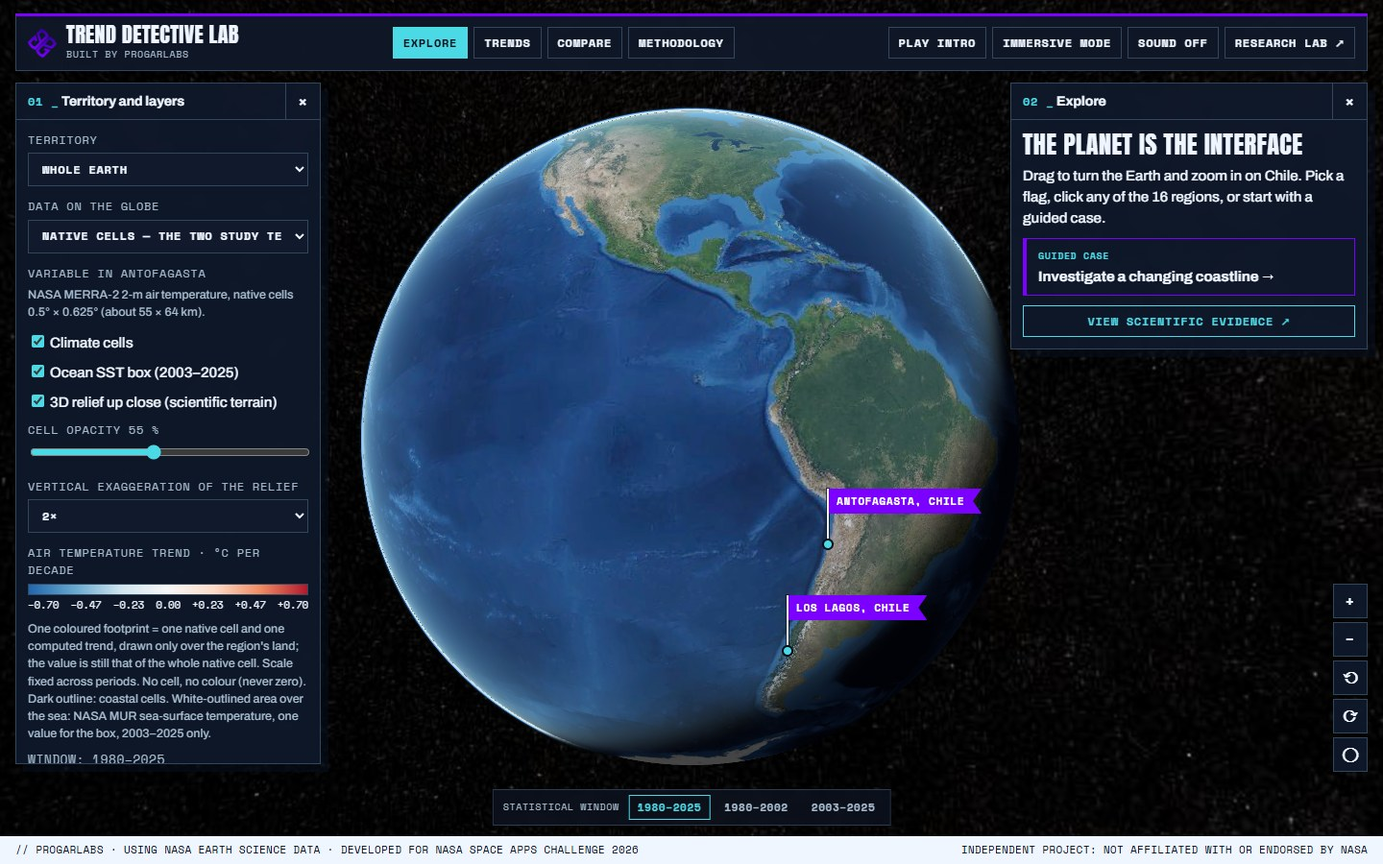
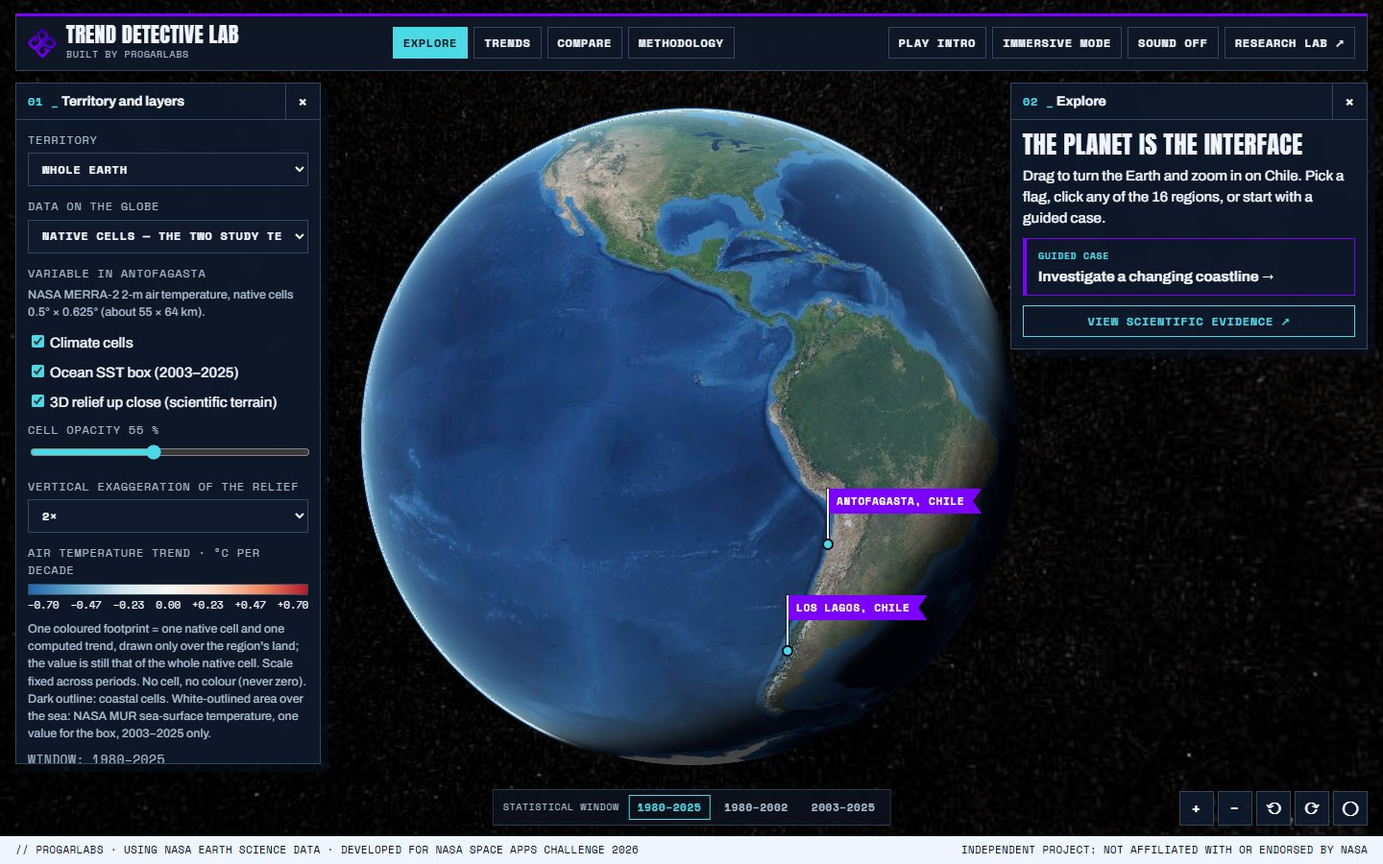
Atlas V2 closing pass: browser smoke run, layout fixes, Lab navigation, re-rendered film, evidence
- web/scripts/smoke.mjs + `npm run smoke`: 24 browser checks on the real page (flags, flights,
  extremes against the published slopes, 16 regions, intro Skip/Stop, Research Lab, old URLs,
  sound, seven viewport sizes, no-WebGL fallback, free orbit). Local only: needs a GPU and the basemap.
- Layout defects found by it and fixed: camera buttons over a tall right panel (now a row in the
  bottom-right corner); header over the panels and footer over the window strip on tablets;
  a phone lying down now uses the phone layout.
- Research Lab: one link back to the globe; the Lab opens on the region of ?region=;
  no link back when WebGL is missing. No scientific text or number changed.
- Names on the relief hide when they collide; a tooltip no longer survives a flight.
- render/shot/smoke remove their throwaway Chrome profile (about 100 MB per run).
- Docs: requirements matrix, final report (measurements, print check, Node decision), audio note;
  captures refreshed and added.

SI disclosure: written with an SI coding tool (Claude); pending review by Fabiana and Giuseppe.

Changed region(s): [[0.8438, 0.6533, 1.0, 0.9644]]

diff --git a/web/src/experiences/immersive.css b/web/src/experiences/immersive.css
@@ -32,6 +32,7 @@
 .im-markers > * { position: absolute; left: 0; top: 0; pointer-events: auto; white-space: nowrap; }
 .im-place { margin: -22px 0 0 8px; font: 700 12px Archivo, system-ui, sans-serif; color: var(--ink); text-shadow: 0 0 4px #000, 0 0 2px #000; pointer-events: none !important; }
 .im-markers > .is-crowded span { display: none; }
+.im-labels span.is-crowded { color: transparent; text-shadow: none; }
 .im-root .im-flag { margin: -58px 0 0 -1px; padding: 0; border: 0; background: none; height: 58px; display: flex; align-items: flex-start; cursor: pointer; }
 .im-flag i { width: 2px; height: 58px; background: var(--ink); box-shadow: 0 0 0 1px rgba(6, 13, 26, 0.7); position: relative; }
 .im-flag i::after { content: ""; position: absolute; left: -3px; bottom: -4px; width: 8px; height: 8px; border-radius: 50%; background: var(--accent); box-shadow: 0 0 0 2px var(--space); }
@@ -101,7 +102,8 @@
 .im-ramp { height: 12px; margin: 6px 0 3px; border: 1px solid var(--line); }
 .im-ticks { display: flex; justify-content: space-between; font-size: 10.5px; letter-spacing: 0; margin-bottom: 8px; }
 
-.im-cam { position: absolute; right: 16px; bottom: 96px; display: flex; flex-direction: column; gap: 4px; }
+/* a row in the bottom-right corner: below the right panel whatever its height, beside the window strip */
+.im-cam { position: absolute; right: 16px; bottom: 40px; display: flex; gap: 4px; }
 .im-root .im-cam button { width: 36px; height: 36px; padding: 0; font-size: 16px; background: rgba(16, 26, 44, 0.9); }
 /* statistical windows: a small floating strip, secondary to the planet; it never resizes the canvas */
 .im-dock { position: absolute; left: 50%; bottom: 40px; transform: translateX(-50%); display: flex; align-items: center; gap: 6px; padding: 5px 6px 5px 10px;
@@ -158,21 +160,33 @@
 .im-credits { margin-top: 1.6vw; font-size: 0.85vw; color: var(--ink); }
 .im-folio { position: absolute; left: 0; right: 0; bottom: 0; display: flex; justify-content: space-between; padding: 0.9vw 3.75vw; background: var(--ink); color: var(--space); font-size: 0.85vw; }
 
-@media (max-width: 1100px) { .im-top nav { order: 3; } .im-top { flex-wrap: wrap; } .im-panel, .im-root .im-reopen { top: 132px; max-height: calc(100% - 236px); } }
-@media (max-width: 760px) {
+/* narrower than 1280: the centred highest/lowest card reaches under the panels, so they end above it */
+@media (max-width: 1279px) { .im-panel { max-height: calc(100% - 294px); } }
+/* tablet: the header takes two rows and the footer wraps, so everything floating moves up a little */
+@media (max-width: 1100px) { .im-top nav { order: 3; } .im-top { flex-wrap: wrap; } .im-panel, .im-root .im-reopen { top: 132px; } .im-panel { max-height: calc(100% - 340px); }
+  .im-dock, .im-cam { bottom: 56px; } .im-dock > span { display: none; } .im-extremes { bottom: 100px; } }
+@media (max-width: 830px) { .im-panel, .im-root .im-reopen { top: 178px; } .im-panel { max-height: calc(100% - 420px); } }   /* header in three rows */
+@media (max-width: 760px), (max-height: 500px) {   /* phones, upright or lying down (PHONE in stage.ts) */
   .im-top { left: 8px; right: 8px; top: 8px; gap: 8px; } .im-actions button { display: none; }
   .im-top nav { gap: 4px; width: 100%; } .im-root .im-top nav button { flex: 1; padding: 7px 2px; font-size: 10.5px; letter-spacing: 0; }
   /* one bottom sheet for evidence, a compact bar under the header for layers: about half the scene stays free */
-  .im-right { left: 8px; right: 8px; width: auto; top: auto; bottom: 96px; max-height: 40dvh; }
-  .im-left { left: 8px; right: 52px; width: auto; top: 150px; max-height: 46dvh; }
+  .im-panel.im-right { left: 8px; right: 8px; width: auto; top: auto; bottom: 96px; max-height: 40dvh; }
+  .im-panel.im-left { left: 8px; right: 52px; width: auto; top: 150px; max-height: 46dvh; }
   .im-root .im-reopen.im-left { top: 150px; } .im-root .im-reopen.im-right { top: auto; bottom: 96px; right: 8px; }
-  .im-cam { bottom: auto; top: 150px; right: 8px; } .im-foot span:last-child { display: none; } .im-foot { padding: 4px 8px; font-size: 8.5px; }
+  .im-cam { bottom: auto; top: 150px; right: 8px; flex-direction: column; } .im-foot span:last-child { display: none; } .im-foot { padding: 4px 8px; font-size: 8.5px; }
   /* phone: the window strip shows only the chosen window (tap it to choose another); extremes shrink to one line each */
-  .im-dock { bottom: 26px; padding: 2px 4px 2px 8px; gap: 2px; } .im-dock > span { font-size: 8.5px; }
+  .im-dock { bottom: 38px; padding: 2px 4px 2px 8px; gap: 2px; } .im-dock > span { display: inline; font-size: 8.5px; }
   .im-root .im-dock button { display: none; padding: 9px 8px; } .im-root .im-dock button[aria-pressed="true"], .im-root .im-dock.is-open button { display: block; }
   .im-extremes { left: 8px; bottom: auto; top: 200px; transform: none; grid-template-columns: auto; padding: 5px 8px; gap: 2px; } .im-extremes b { font-size: 18px; } .im-extremes p, .im-extremes div span:last-child { display: none; }
   .im-panel.im-left.is-expanded ~ .im-extremes { display: none; }
   .im-flag span { font-size: 9.5px; padding: 4px 15px 4px 6px; } .im-study span { display: none; } .im-vol { display: none; }
   .im-skip { top: 8px; right: 8px; }
+}
+/* a phone lying down: one header row, layers under it, evidence as a short bottom sheet; the highest/lowest card gives way to its two markers on the cells */
+@media (max-height: 500px) {
+  .im-top { flex-wrap: nowrap; } .im-top nav { order: 0; width: auto; flex: 1; } .im-brand em, .im-actions a, .im-extremes { display: none; }
+  .im-panel.im-left, .im-root .im-reopen.im-left, .im-cam { top: 64px; } .im-panel.im-left { max-height: calc(100dvh - 170px); }
+  .im-panel.im-right, .im-root .im-reopen.im-right { bottom: 64px; } .im-panel.im-right { left: auto; width: min(372px, 60vw); max-height: calc(100dvh - 140px); }
+  .im-dock { left: 8px; transform: none; }
 }
 @media (prefers-reduced-motion: reduce) { .im-root, .im-root * { transition: none !important; animation: none !important; } }

diff --git a/web/src/experiences/stage.ts b/web/src/experiences/stage.ts
@@ -47,8 +47,9 @@ export type StageState = typeof DEFAULTS & {
   scale: number; sources: string[]; places: string[];
   tip: { x: number; y: number; lines: string[] } | null;
 };
+export const PHONE = '(max-width: 760px), (max-height: 500px)';   // same condition as the phone block of immersive.css
 export const useStage = create<StageState>(() => ({
-  ...DEFAULTS, mode: 'explore', left: matchMedia('(max-width: 760px)').matches ? 'minimized' : 'expanded', right: matchMedia('(max-width: 760px)').matches ? 'minimized' : 'expanded',   // phones open on the planet
+  ...DEFAULTS, mode: 'explore', left: matchMedia(PHONE).matches ? 'minimized' : 'expanded', right: matchMedia(PHONE).matches ? 'minimized' : 'expanded',   // phones open on the planet
   hideUi: false, film: false, t: 0,
   status: 'loading', error: '', near: false, region: null, regionNames: {}, extremes: null, picked: null, atlas: null,
   basemap: null, sstSlope: undefined, scale: 1, sources: [], places: [], tip: null,
@@ -207,13 +208,18 @@ export async function mountStage(els: { root: HTMLElement; globe: HTMLElement; t
       const L = poseToLocal(data.scene, terrain.W, terrain.H, p, EARTH_R);
       cam.position.set(...L.position); cam.up.set(...L.up); cam.lookAt(...L.target);
       renderer.render(scene3, cam);
+      const named: number[][] = [];
       data.scene.places.forEach((pl, i) => {               // place labels ride on the terrain
         const d = els.labels.children[i] as HTMLElement | undefined;
         if (!d) return;
         const x = (pl.uv[0] - 0.5) * terrain!.W, z = (pl.uv[1] - 0.5) * terrain!.H;
         const v = v3.set(x, (pl.z / KM) * terrain!.exag() - terrain!.dropAt(x, z) + 2, z).project(cam);
         d.style.display = v.z < 1 && Math.abs(v.x) < 1 && Math.abs(v.y) < 1 ? '' : 'none';
-        d.style.transform = `translate(${((v.x + 1) / 2) * W}px, ${((1 - v.y) / 2) * H}px)`;
+        const sx = ((v.x + 1) / 2) * W, sy = ((1 - v.y) / 2) * H, w = pl.name.length * 7.5 + 22;   // ponytail: width estimated from the name's length, measure the span if labels ever change font
+        d.style.transform = `translate(${sx}px, ${sy}px)`;
+        const crowded = d.style.display === '' && named.some((t) => sx < t[0] + t[2] && sx + w > t[0] && Math.abs(sy - t[1]) < 24);
+        d.classList.toggle('is-crowded', crowded);        // as for the markers: the icon stays, the name hides
+        if (!crowded && d.style.display === '') named.push([sx, sy, w]);
       });
     }
     placeMarkers(p.range, a, !!fs);
@@ -373,6 +379,7 @@ export async function mountStage(els: { root: HTMLElement; globe: HTMLElement; t
      *  The camera rises, travels along Chile and descends; any pointer, wheel or Escape input interrupts it. */
     flyTo(dest: SceneId | 'earth' | string) {
       if (get().film) endFilm(get().t);
+      set({ tip: null });                                   // a tooltip belongs to the place the camera is leaving
       const id = dest in SCENES ? dest as SceneId : sceneOf(dest);
       const to = dest === 'earth' ? WHOLE_EARTH : id ? DEST[id] : regionPose(dest);
       if (!to) return;

diff --git a/web/src/main.tsx b/web/src/main.tsx
@@ -7,6 +7,7 @@ const q = new URLSearchParams(location.search);
 const noGl = (() => { try { const c = document.createElement('canvas'); return !(c.getContext('webgl2') || c.getContext('webgl')); } catch { return true; } })();
 // Research Lab: asked for (?view=lab), any of its existing deep links (?q=, ?embed=3d, ?view=3d, ?fixture, #anchors), or no WebGL.
 const lab = noGl || ['q', 'embed', 'fixture'].some((k) => q.has(k)) || ['lab', '3d'].includes(q.get('view') ?? '') || location.hash.length > 1;
+if (noGl) document.documentElement.dataset.nogl = '1';   // styles.css hides "Back to the globe": there is no globe to go back to
 
 const Lab = lazy(async () => { await import('./styles.css'); return import('./App'); });
 const Immersive = lazy(() => import('./experiences/immersive'));
@@ -15,9 +16,9 @@ createRoot(document.getElementById('root')!).render(
   <StrictMode>
     <Suspense fallback={null}>
       {lab ? <>
-        {q.get('embed') !== '3d' && <p style={{ margin: 0, padding: '6px 16px', font: '14px system-ui', background: '#060D1A' }}>
-          <a href="./" style={{ color: '#4CD9E6' }}>← Immersive Earth</a>
-          {noGl && <span style={{ color: '#EFF6FF' }}> · This browser cannot show WebGL, so the 3D Earth is replaced by the Research Lab and its 2D maps.</span>}
+        {/* the way back to the globe is the Lab's own "Back to the globe" link; this bar only explains a missing globe */}
+        {noGl && q.get('embed') !== '3d' && <p style={{ margin: 0, padding: '6px 16px', font: '14px system-ui', background: '#060D1A', color: '#EFF6FF' }}>
+          This browser cannot show WebGL, so the 3D Earth is replaced by the Research Lab and its 2D maps.
         </p>}
         <Lab />
       </> : <Immersive />}

diff --git a/web/src/styles.css b/web/src/styles.css
@@ -309,6 +309,7 @@ button:disabled { cursor: not-allowed; }
 .paper .eyebrow { font-family: var(--mono); font-weight: 400; font-size: 0.8rem; letter-spacing: 0.14em; color: var(--brand-deep); }
 .paper .to-globe { font-family: var(--mono); font-size: 0.78rem; text-decoration: none; color: var(--ink); border: 1px solid var(--ink); padding: 0.3rem 0.7rem; }
 .paper .to-globe:hover { background: var(--ink); color: #fff; }
+[data-nogl] .paper .to-globe { display: none; }
 .paper .paper-status { font-family: var(--mono); font-size: 0.76rem; text-transform: uppercase; letter-spacing: 0.08em; margin: 0 0 1rem;
   padding-left: 0.6rem; border-left: 0.6rem solid var(--accent); max-width: none; }
 .paper .lede { font-size: 1.2rem; font-weight: 500; color: var(--ink); max-width: 58ch; }
@@ -364,7 +365,7 @@ button:disabled { cursor: not-allowed; }
 /* ── Print (A4): the paper without its controls ── */
 @page { size: A4; margin: 18mm 16mm; }
 @media print {
-  /* interactive chrome; #root > p:first-child is the "← Immersive Earth" bar rendered by main.tsx */
+  /* interactive chrome; #root > p:first-child is the no-WebGL notice rendered by main.tsx */
   #root > p:first-child, .paper .skip, .paper .to-globe, .paper .q, .paper .primary, .paper .t3d-bar, .paper .t3d-cams, .paper .t3d-view,
   .paper .toggle button[aria-pressed='false'] { display: none !important; }
   /* the WebGL canvas does not print: say so; its legend, notes and sources stay */

diff --git a/web/src/experiences/immersive.tsx b/web/src/experiences/immersive.tsx
@@ -17,7 +17,7 @@ import { BRBG, ramp, RDBU, SCENES, stopsFor, type SceneId } from '../engine/terr
 import { num, pval, signed, VERDICT_SHORT } from '../format';
 import type { Catalog, SST, Territory, VariableData } from '../types';
 import { sound } from './sound';
-import { EVENTS, mountStage, REGION_OF, TOTAL, useStage, type Atlas, type Layer, type Mode, type PanelState, type Stage } from './stage';
+import { EVENTS, mountStage, PHONE, REGION_OF, TOTAL, useStage, type Atlas, type Layer, type Mode, type PanelState, type Stage } from './stage';
 import { STUDIES, type Study } from './studies';
 
 const Q = new URLSearchParams(location.search);
@@ -46,7 +46,7 @@ const domainOf = (d: VariableData) => {
 function setPanel(side: 'left' | 'right', v: PanelState) {
   const other = side === 'left' ? 'right' : 'left';
   // small screens: one expanded sheet at a time
-  if (v === 'expanded' && matchMedia('(max-width: 760px)').matches && useStage.getState()[other] === 'expanded') useStage.setState({ [other]: 'minimized' } as never);
+  if (v === 'expanded' && matchMedia(PHONE).matches && useStage.getState()[other] === 'expanded') useStage.setState({ [other]: 'minimized' } as never);
   useStage.setState({ [side]: v } as never);
   sound.cue('panel');
 }

diff --git a/web/src/App.tsx b/web/src/App.tsx
@@ -143,7 +143,9 @@ function FullApp() {
   useEffect(() => {
     if (!cat || varId) return;
     setVarId(cat.variables[0]?.id ?? null);
-    const preferred = cat.regions.find((r) => r.id === 'los-lagos') ?? cat.regions[0];
+    // the region the visitor came with from the globe (?region=), else the default
+    const asked = new URLSearchParams(location.search).get('region');
+    const preferred = cat.regions.find((r) => r.id === asked) ?? cat.regions.find((r) => r.id === 'los-lagos') ?? cat.regions[0];
     setA(preferred?.id ?? '');
   }, [cat, varId]);
 

diff --git a/docs/immersive/V2_REQUIREMENTS_MATRIX.md b/docs/immersive/V2_REQUIREMENTS_MATRIX.md
@@ -5,20 +5,20 @@
 Sources: Fabiana's eight observations in PR #12 (`docs/frontend/OBSERVACIONES_EXPERIENCIA_INMERSIVA.md`, read from the branch `docs/observaciones-inmersivas`), Giuseppe's requests, and the technical audit. Design contract: PR #8. Base: PR #10 / #11.
 
 Status words: **Done** (implemented and checked as described), **Partial** (what is missing is stated), **Not done**.
-Captures are in [`v2/`](v2/); tests are `tests/test_atlas.py` (pytest) and `web/src/atlas.test.ts` (vitest).
+Captures are in [`v2/`](v2/); tests are `tests/test_atlas.py` (pytest), `web/src/atlas.test.ts` (vitest) and the browser smoke run `web/scripts/smoke.mjs` ("smoke NN" below; 24 checks, all passing on 2026-11-15, see `V2_FINAL_REPORT.md`).
 
 ## Fabiana — PR #12
 
 | ID | Observation | What was done | Code | Check | Status |
 | --- | --- | --- | --- | --- | --- |
-| F1 | Intro approved, no changes | Camera spline, shots, captions, title and hand-off untouched (`K`, `SHOTS` in `timeline.ts` unchanged). V1 masters kept. V2 differs in three declared ways: the yearly chart (G6), the relief without its block (F8), SST drawn on the sea. | `web/src/cinematic/timeline.ts` | vitest "film timeline" (camera, 30 s, hand-off); `v2/film_v1_v2.jpg` | Done — **needs Fabiana's eye on the three differences** |
-| F2 | Bottom bar smaller / transparent; much smaller on mobile | The full-width year axis became a small centred strip "Statistical window" with the computed windows as buttons, 55 % opaque. Phone: only the chosen window shows; tapping it lists the others. The footer credit line is thinner on phones. The canvas never resizes. | `Dock` in `immersive.tsx`, `.im-dock` in `immersive.css` | `v2/earth.jpg` vs production; `v2/mobile_earth.jpg` | Done |
-| F3 | Two flags on Whole Earth: ANTOFAGASTA, CHILE / LOS LAGOS, CHILE; click enters the territory with its statistics | Two georeferenced flag buttons (keyboard-focusable), hidden when behind the planet, pinned on Antofagasta city and Puerto Montt. Click → arc flight → relief, cells, extremes and panel of that territory. | `FLAGS`, `Markers` in `immersive.tsx`; `placeMarkers`, `flyTo` in `stage.ts` | Browser: click → territory (`v2/antofagasta.jpg`, `v2/los_lagos.jpg`) | Done |
+| F1 | Intro approved, no changes | Camera spline, shots, captions, title and hand-off untouched (`K`, `SHOTS` in `timeline.ts` unchanged). V1 masters kept. V2 differs in three declared ways: the yearly chart (G6), the relief without its block (F8), SST drawn on the sea. | `web/src/cinematic/timeline.ts` | vitest "film timeline" (camera, 30 s, hand-off); `v2/film_v1_v2.jpg`; V2 re-rendered and reviewed frame by frame (60 frames) in the closing pass | Done — **needs Fabiana's eye on the three differences** |
+| F2 | Bottom bar smaller / transparent; much smaller on mobile | The full-width year axis became a small centred strip "Statistical window" with the computed windows as buttons, 55 % opaque. Phone: only the chosen window shows; tapping it lists the others. The footer credit line is thinner on phones. The canvas never resizes. | `Dock` in `immersive.tsx`, `.im-dock` in `immersive.css` | `v2/earth.jpg` vs production; `v2/mobile_earth.jpg`; smoke 16: no floating element covers another at 1920×1080, 1440×900, 1366×768, 1280×720, 768×1024, 844×390, 390×844 | Done |
+| F3 | Two flags on Whole Earth: ANTOFAGASTA, CHILE / LOS LAGOS, CHILE; click enters the territory with its statistics | Two georeferenced flag buttons (keyboard-focusable), hidden when behind the planet, pinned on Antofagasta city and Puerto Montt. Click → arc flight → relief, cells, extremes and panel of that territory. | `FLAGS`, `Markers` in `immersive.tsx`; `placeMarkers`, `flyTo` in `stage.ts` | smoke 02 (both flags visible on load), 03 (click → flight → relief and extremes) | Done |
 | F4 | Magnifier cursor | SVG magnifier on the planet only (cyan lens over something inspectable, grabbing hand while dragging). Buttons, selects, links and inputs keep their own cursors. No cursor on touch. | `.im-input` in `immersive.css` | Browser, by hand | Done — hot-spot and size not checked on a high-DPR screen |
 | F5 | Population icon at each town, exact location | Town icon for the 9 towns and a different triangle for the 3 landmarks (Llullaillaco, Lago Llanquihue, Volcán Osorno are not towns). Coordinates are those the terrain pipeline uses; names hide when they collide, icons stay; hidden behind the planet and at far scales. | `pipeline/atlas.py` (`PLACES`), `.im-place`, `.im-labels` | pytest `test_places_sit_where_the_terrain_put_them`; `v2/antofagasta.jpg` | Done |
-| F6 | Visible journey through Chile between Antofagasta and Los Lagos | One flight: the camera rises until neither relief is on screen (about 4 400 km), travels along the ground and descends. The destination's relief is loaded at the top of the arc, so there is no cut. Pointer, wheel or Escape stops it. Instant with reduced motion. | `planFlight`, `flightPose` in `timeline.ts`; `tick` in `stage.ts` | vitest "flights between territories"; browser both ways | Done |
-| F7 | Maximum and minimum shown automatically | "Highest cell trend" / "Lowest cell trend" card and two markers on the cells appear on arrival, for the territory, variable and window on screen. They are the largest and smallest **published per-cell trends**, labelled as trends, with unit, product, window, cell centre and p-value. | `extremesOf` in `pure.ts`; `Extremes` in `immersive.tsx` | vitest "highest and lowest cell trend" (4 scene/window cases against the sorted published slopes) | Done |
-| F8 | Trend layer follows the Earth's curvature and relief; not flat and square | Far and mid range: cells are polygons on the Cesium ellipsoid, clipped to the region. Up close: the relief is cut to the region's shape (alpha mask), bent by d²/2R and viewed with a camera whose vertical tilts with the planet; the grey block is gone. | `addLayer` in `earth.ts`; `paintMask`, `dropAt` in `terrain.ts`; `poseToLocal` in `geo.ts` | `v2/cells_on_globe.jpg`, `v2/antofagasta.jpg`, free orbit by hand | Done — the relief texture is still the pipeline's hypsometric tint, so its colour differs from the basemap around it |
+| F6 | Visible journey through Chile between Antofagasta and Los Lagos | One flight: the camera rises until neither relief is on screen (about 4 400 km), travels along the ground and descends. The destination's relief is loaded at the top of the arc, so there is no cut. Pointer, wheel or Escape stops it. Instant with reduced motion. | `planFlight`, `flightPose` in `timeline.ts`; `tick` in `stage.ts` | vitest "flights between territories"; smoke 07 (the relief leaves the screen before the other appears; `v2/mid_flight.jpg`) and 08 (Escape stops the camera, the trip can be resumed) | Done |
+| F7 | Maximum and minimum shown automatically | "Highest cell trend" / "Lowest cell trend" card and two markers on the cells appear on arrival, for the territory, variable and window on screen. They are the largest and smallest **published per-cell trends**, labelled as trends, with unit, product, window, cell centre and p-value. | `extremesOf` in `pure.ts`; `Extremes` in `immersive.tsx` | vitest "highest and lowest cell trend" (4 scene/window cases against the sorted published slopes); smoke 04, 05, 07: the card equals the largest and smallest published slope of `scene.json` for three territory/window pairs, with no click | Done — on a phone lying down (height ≤ 500 px) the card is hidden and only the two markers on the cells remain |
+| F8 | Trend layer follows the Earth's curvature and relief; not flat and square | Far and mid range: cells are polygons on the Cesium ellipsoid, clipped to the region. Up close: the relief is cut to the region's shape (alpha mask), bent by d²/2R and viewed with a camera whose vertical tilts with the planet; the grey block is gone. | `addLayer` in `earth.ts`; `paintMask`, `dropAt` in `terrain.ts`; `poseToLocal` in `geo.ts` | `v2/cells_on_globe.jpg`, `v2/antofagasta.jpg`; smoke 18 orbits both reliefs (from the east, low oblique, from above, from the south-west, hand-over range): `v2/orbit_*.jpg` | Done — the relief texture is still the pipeline's hypsometric tint, so its colour differs from the basemap around it |
 
 ## Giuseppe
 
@@ -27,11 +27,11 @@ Captures are in [`v2/`](v2/); tests are `tests/test_atlas.py` (pytest) and `web/
 | G1 | Cells clipped to the territory | `pipeline/atlas.py` writes `visible = native cell ∩ region` for the 51 + 103 cells (shapely, offline). Values, intervals and p stay in `scene.json`; the legend and Methodology say the value is that of the whole native cell. SST is not clipped by land: it is drawn on the sea part of its box only. pytest checks containment, completeness and that the atlas file carries no statistics. | Done for the two territories with native-cell scenes. No national cell layer exists in the published files. |
 | G2 | Materials, transparency, glow | Translucent fills with a thin outline; coastal cells dark outline; selected cell cyan outline (kept until closed); extremes double outline; no fill where there is no value. No bloom, no emissive: colours must match the legend. | Partial — significance is given in the tooltip, the cell card and the tables, not as a pattern on the cells. |
 | G3 | Clean Explore without the pasted block | The rectangular terrain and its grey base are gone from the globe. "3D relief up close" can be switched off to keep only cells on the globe. | Done |
-| G4 | The 16 regions | Click any region on the globe, or choose it in the Territory list (keyboard), to fly there and read its published regional trends (air temperature MERRA-2, precipitation IMERG): slope, unit, period, interval, p, q, verdict, product, grid. Two regional choropleths with their own scale and legend; a 16-row table in Trends. Shareable `?region=<id>&layer=t2m`. | Partial — no search box (the list is a native select with type-ahead); GLDAS regional variables stay in the Research Lab. |
+| G4 (smoke 09) | The 16 regions | Click any region on the globe, or choose it in the Territory list (keyboard), to fly there and read its published regional trends (air temperature MERRA-2, precipitation IMERG): slope, unit, period, interval, p, q, verdict, product, grid. Two regional choropleths with their own scale and legend; a 16-row table in Trends. Shareable `?region=<id>&layer=t2m`. | Partial — no search box (the list is a native select with type-ahead); GLDAS regional variables stay in the Research Lab. |
 | G5 | Studies with visual support | Four study pins (coast/interior, SST, Magallanes precipitation, Los Lagos soil moisture), each labelled *Study area* or *Regional anchor*; none is drawn as a station. Card: question, place, result read from the JSON, product, period, limitation, link to the full study. One image (the team's own QGIS map). | Partial — one image only; no observation-site pins. |
 | G6 | Animated time chart in the intro | Yearly anomalies 1980–2025 of the coastal (10 cells) and interior (41 cells) groups, drawn year by year from 14.8 s to 21.4 s; 2003–2025 is shaded when the film changes window. Series exported by `pipeline/atlas.py`; their OLS slopes equal the published ones (pytest). | Done |
 | G7 | Sound | Interface: seven short cues synthesised with Web Audio (no file shipped), off by default, on/off + volume, remembered. Film: `web/scripts/film_audio.py` builds a mix from five local Epidemic Sound files on the film's beats. See `V2_AUDIO.md`. | Partial — the film mix was **not listened to by a person** and its licence must be confirmed by the subscriber. |
-| G8 | Research Lab as a scientific publication | Editorial layer (Archivo / Anton / Space Mono, 72-character measure, ruled tables with tabular numerals), masthead with "Working paper · exploratory results · not peer-reviewed", contents, numbered figures and tables, A4 print styles, "Back to the globe" keeping the region. No scientific text or number was edited. | Partial — the eleven-section paper structure per investigation was not written; print preview was not opened. |
+| G8 | Research Lab as a scientific publication | Editorial layer (Archivo / Anton / Space Mono, 72-character measure, ruled tables with tabular numerals), masthead with "Working paper · exploratory results · not peer-reviewed", contents, numbered figures and tables, A4 print styles, "Back to the globe" keeping the region. No scientific text or number was edited. Closing pass: one way back to the globe (the duplicate top bar is gone), the Lab opens on the region it was called with (`?region=`), and the A4 print was produced and read (25 pages: margins, figures, tables and references print; the chosen region is written out). | Partial — the eleven-section paper structure per investigation was not written; in print the variable-catalogue table has narrow columns and some pages are half empty. |
 
 ## Audit
 
@@ -40,8 +40,11 @@ Captures are in [`v2/`](v2/); tests are `tests/test_atlas.py` (pytest) and `web/
 | Skip vs Stop | "Skip intro" jumps to the last frame (interactive state); "Stop here" and Escape stop at the current pose. | Done |
 | Persistent selection | Click or tap keeps the cell: cyan outline and a card with its values until closed. | Done |
 | Guided start | "Investigate a changing coastline" → Antofagasta, cells, 1980–2025, study card. | Done |
-| One data source | Globe and Lab read the same published JSON; region ids shared; `?region=` goes both ways. | Done (the Lab does not preselect its own region from `?region=`) |
+| One data source | Globe and Lab read the same published JSON; region ids shared; `?region=` goes both ways. | Done — the Lab now preselects the region of `?region=` (smoke 10) |
 | Tooltip safety | Tooltips are React text nodes; `dangerouslySetInnerHTML` removed. | Done |
-| Old URLs | `?view=lab`, `?view=3d`, `?embed=3d` with `scene`, `period`, `cam`, `exag`, `tex`. | Checked after the change — see `V2_FINAL_REPORT.md` |
+| Old URLs | `?view=lab`, `?view=3d`, `?embed=3d` with `scene`, `period`, `cam`, `exag`, `tex`. | smoke 13 (`?embed=3d…`), 14 (`?region=…&relief=0`), 10 (`?view=lab&region=`) |
 | Node | CI and local stay on Node 20 (the machine has 20.11.1). Cesium 1.147 declares ≥ 22.17 as advisory; build and tests pass on 20. | Not changed — decision for the team |
-| Frontend tests | vitest added (19 tests), run in CI before the build. No browser E2E suite. | Partial |
+| Frontend tests | vitest (19 tests) runs in CI before the build. Browser smoke run `npm run smoke` (24 checks, headless Chrome over the DevTools protocol, no new dependency) is local only: it needs a GPU and the basemap. | Partial — the smoke run is not in CI |
+| Layout | Found and fixed in the closing pass: camera buttons over a tall right panel (now a row in the bottom-right corner); header over the panels and footer over the window strip on tablets; a phone lying down (now uses the phone layout). | Done (smoke 16) |
+| No WebGL | Research Lab with a notice and no link back to a globe that cannot be shown. | Done (smoke 17) |
+| Relief labels | Names on the relief hide when they collide with another name (the icon stays), as the globe markers already did. | Partial — a name can still touch a neighbouring icon (Lago Llanquihue / Volcán Osorno) |

diff --git a/docs/immersive/V2_FINAL_REPORT.md b/docs/immersive/V2_FINAL_REPORT.md
@@ -12,8 +12,11 @@ What each request became is in [`V2_REQUIREMENTS_MATRIX.md`](V2_REQUIREMENTS_MAT
 | Python (science + atlas geometry) | `uv run pytest -q` | **54 passed** (46 existing + 8 in `tests/test_atlas.py`) |
 | Frontend unit | `npm test` (vitest, in `web/`) | **19 passed** (`web/src/atlas.test.ts`) |
 | Types and build | `npm run build` | clean, Node 20.11 |
+| Browser smoke | `npm run dev -- --port 5199`, then `npm run smoke` | **24 passed** (local, headless Chrome 157 with GPU) |
 
-CI now runs `npm test` before the build. There is **no browser end-to-end suite**; interactions were checked by hand in a browser and with the captures below. The 46 scientific tests say nothing about the frontend.
+CI runs `npm test` before the build. The browser smoke run (`web/scripts/smoke.mjs`) is **not in CI**: it needs a GPU and the online basemap. The 46 scientific tests say nothing about the frontend.
+
+What the smoke run does on the real page: Whole Earth draws; two flags; flag → flight → relief; the highest/lowest card equals the published per-cell slopes for Antofagasta 1980–2025, Antofagasta 2003–2025 and Los Lagos 2000–2024 without a click; a click keeps a cell; Antofagasta → Los Lagos with the relief off screen at the top of the arc; Escape stops a flight; 16 regions in the list, region card, regional layer, 16-row table, address keeps the region; the Research Lab opens on that region with one link back; Skip and Stop of the intro; `?embed=3d`; `?region=…&relief=0`; sound on/off/volume remembered; no floating element over another at seven viewport sizes; no-WebGL fallback; free orbit of both reliefs (captures). A console error fails the check it happens in.
 
 What the new tests assert: clipped footprints are exactly native cell ∩ region (nothing outside, nothing missing, valid polygons); the atlas file carries no statistics; SST is drawn on the sea only; place coordinates match the terrain scenes; the yearly series in the film reproduce the published slopes (1980–2025) and the published signs for 2003–2025; the film is 30 s, deterministic, keeps its camera and ends on the interactive pose; a flight between territories rises until no relief is on screen, moves without jumps and is instant with reduced motion; highest/lowest equal the ordering of the published slopes; studies point to real destinations.
 
@@ -29,10 +32,29 @@ What the new tests assert: clipped footprints are exactly native cell ∩ region
 | `mobile_before_after.jpg` (390×844) | V1, V2 on load, V2 in Antofagasta |
 | `film_v1_v2.jpg` | Film at 11 s, 18 s and 23.5 s: V1 left, V2 right |
 | `contact_sheet_film_v2.jpg` | Film V2, one frame every 2 s |
+| `mid_flight.jpg` | Antofagasta → Los Lagos, 2.5 s into the flight: both territories as cells on the globe, no relief on screen |
+| `sst_2003_2025.jpg` | Antofagasta, window 2003–2025: the MUR SST area on the sea only |
+| `orbit_*.jpg` | Free orbit of both reliefs: from the east, low oblique, from above |
+| `layout_768x1024.jpg`, `layout_844x390.jpg`, `layout_1280x720_region.jpg` | Tablet, phone lying down, small laptop with a region card (after the layout fixes) |
+| `lab_region.jpg`, `no_webgl.jpg` | Research Lab opened from Maule (one link back); the no-WebGL fallback |
 
 Checked by hand in the browser: flag → flight → territory; Antofagasta → Los Lagos and back; cell selection kept; region click and list; regional layers and table; Skip vs Stop; `?view=lab&q=coast`, `?embed=3d&scene=antofagasta&period=2003-2025&cam=oblique&exag=3&tex=relief`; no console errors in any of these.
 
-Not checked: 1920×1080, 1366×768, 1280×720 and 768×1024 layouts; landscape phones; real devices; keyboard-only run-through; screen readers; print preview of the Lab; the no-WebGL fallback after these changes; frame rate, memory and load time.
+Not checked: real devices (phones were emulated viewports); keyboard-only run-through; screen readers; the magnifier's hot-spot on a high-DPR screen; a lost WebGL context or a basemap that fails to load mid-session.
+
+## Measurements
+
+One machine: headless Chrome 157, NVIDIA GTX 1650 SUPER (ANGLE D3D11), 1440×900, Vite dev server (unminified), measured by `smoke.mjs` over three runs. Not a benchmark.
+
+| What | Value |
+| --- | --- |
+| Navigation → globe usable (status gone) | 2.4–3.3 s |
+| Flight, Whole Earth → Antofagasta (until relief opaque and extremes shown) | 5.4 s |
+| Flight, Antofagasta ↔ Los Lagos | 4.0–4.2 s |
+| Frames per second, idle in a territory / during a flight | 137–144 / 136–143 (the display's rate) |
+| JS heap after six flights between territories | 202–434 MB (varies with garbage collection; not a leak test) |
+
+Not measured: GPU memory, load time of the production build on a slow network, low-end or mobile hardware.
 
 ## Film
 
@@ -41,8 +63,8 @@ All in `web/out/` (git-ignored, local):
 | File | What |
 | --- | --- |
 | `trend-detective-lab-earth-experience-30s.mp4`, `…-30s-4k.mp4` | **V1, approved, untouched** |
-| `trend-detective-lab-film-v2-1080p.mp4` | V2 full render: H.264, 1920×1080, 30 fps, 900 frames, 30.000 s, decodes clean |
-| `trend-detective-lab-earth-experience-v2-30s.mp4` | V2 silent delivery copy, 29.97 s (stream copy) |
+| `trend-detective-lab-film-v2-1080p.mp4` | V2 full render: H.264, 1920×1080, 30 fps, 900 frames, 30.000 s, decodes clean. **Re-rendered in the closing pass** because the camera buttons moved (they show in the last 2.7 s); the earlier render is kept in `web/out/v2_prev/` |
+| `trend-detective-lab-earth-experience-v2-30s.mp4` | V2 silent delivery copy (stream copy of the re-render: 900 frames, 30.000 s) |
 | `trend-detective-lab-earth-experience-v2-30s-audio.mp4` (+ `.wav`, `.cues.json`) | V2 with the sound mix: AAC, integrated loudness −21.8 LUFS, peak −5.5 dBFS, no clipping. **Not listened to; licence unconfirmed** |
 | `events-v2.json` | Beat list of V2 |
 
@@ -70,10 +92,10 @@ Hand-off: `poseAt(30)` equals the interactive Antofagasta pose (unit test); the 
 - Studies: four cards, one image; no observation-site pins.
 - Region search box; GLDAS regional variables on the globe.
 - Significance as a pattern on the cells.
-- Research Lab: no rewrite into paper sections per investigation; `?region=` does not preselect the Lab's region; two "back" links are visible.
+- Research Lab: no rewrite into paper sections per investigation; print works but is not polished (narrow catalogue table, half-empty pages).
 - Sound: film mix unheard; narration unrecorded; licence unconfirmed.
-- Browser E2E tests; accessibility audit; performance measurements; 4K render of V2.
-- Node: CI and local remain on Node 20 although Cesium 1.147 declares ≥ 22.17.
+- Browser smoke run in CI; accessibility audit; performance on other hardware; 4K render of V2.
+- Node: CI and local remain on Node 20 although Cesium 1.147 declares ≥ 22.17. Tests, build and the smoke run pass on 20.11, which shows that it works, not that it is supported. Left unchanged on purpose on delivery day (the team's machine and the Pages workflow are pinned to 20); afterwards: Node 22 LTS locally and `node-version: 22` in both workflows, then the same suites.
 - `docs/immersive/README.md` and the storyboard describe V1 except for the new V2 section.
 
 ## For people to decide

diff --git a/docs/immersive/V2_AUDIO.md b/docs/immersive/V2_AUDIO.md
@@ -33,6 +33,8 @@ Built by `web/scripts/film_audio.py <sound folder> <silent film> <output>`; it w
 
 A +12 dB make-up gain, a limiter at −1 dBFS and a 1.2 s final fade close the mix. Measured on the result: integrated loudness −21.8 LUFS, peak −5.5 dBFS, no clipping (quiet by broadcast standards; raise `MASTER_DB` after listening).
 
+Closing pass (2026-11-15): the mix was rebuilt on the re-rendered picture with the same script and cues and measured again with ffmpeg (`ebur128`); the interface cues were exercised in a browser (on/off, volume slider, choice remembered, page unaffected). None of this is listening.
+
 **Not verified:** how it sounds. Files were chosen by name, duration and level only. Some of these files may hold several takes in one file; the peak alignment would then pick the loudest take. A person must listen before this version is shown.
 
 ## Licence — what must be confirmed before publishing the film with sound
